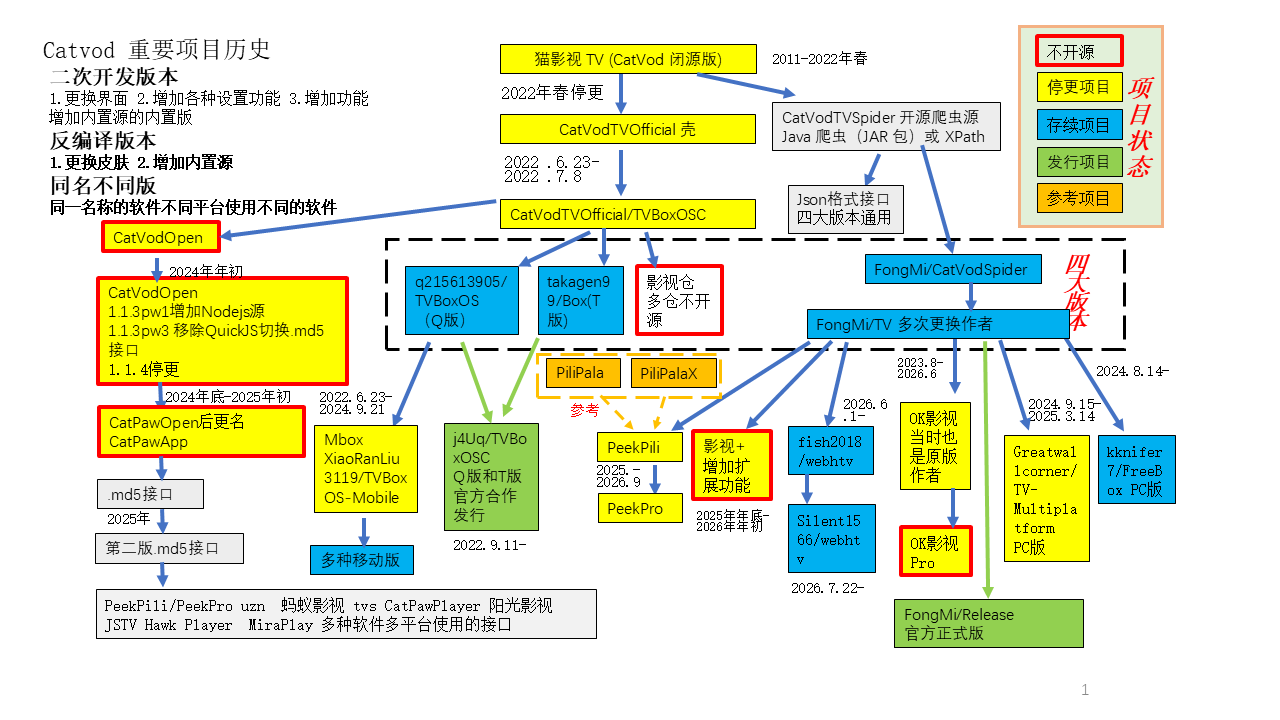
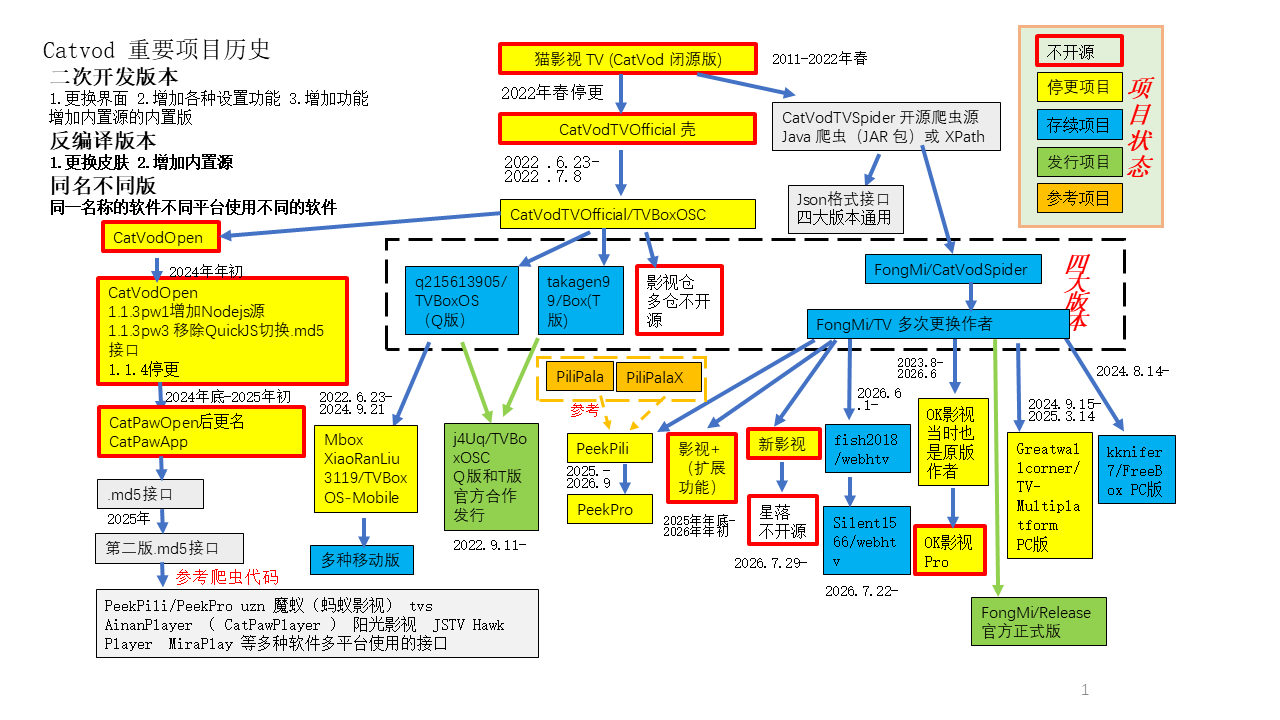
Add files via upload

diff --git a/index.html b/index.html
@@ -400,7 +400,7 @@ const APPS = [
       { lab: "群组", url: "https://t.me/uzVideoApp", text: "t.me/uzVideoApp" },
       { lab: "md5源", url: "https://t.me/PPANZU", text: "UZN 猫爪源频道 t.me/PPANZU" }
     ] },
-  { name: "蚂蚁影视", icon: "🐜", sub: "多平台，支持猫爪源（md5 源）", tags: ["多平台", "猫爪源"],
+  { name: " 魔蚁 （蚂蚁影视）", icon: "🐜", sub: "多平台，支持猫爪源（md5 源）", tags: ["多平台", "猫爪源"],
     links: [
       { lab: "项目", url: "https://github.com/ant-video/ant-video/", text: "GitHub: ant-video/ant-video" },
       { lab: "频道", url: "https://t.me/ant_video", text: "t.me/ant_video" }
@@ -420,11 +420,6 @@ const APPS = [
       { lab: "项目", url: "https://github.com/Silent1566/webhtv", text: "GitHub: Silent1566/webhtv" },
       { lab: "下载", url: "https://github.com/Silent1566/webhtv/releases", text: "Releases 下载" }
     ] },
-  { name: "PeekPro", icon: "🦋", sub: "支持 MD5 等多种源，影视二次开发版；前身 PeekMili（羊壳），不支持 TV、支持 iOS，功能强。已停更，旧版 1.2.5 仍可用。关闭鉴权服务器，网上多为篡改版。Mac/Win 支持 t4、.md5；安卓还支持 tvbox 格式，运行 php 需装 php。iOS 不支持 PHP/py/本地包。巨魔安装：先用全能签签名打开文件访问，再巨魔安装", tags: ["停更", "iOS", "多格式"],
-    links: [
-      { lab: "项目", url: "https://github.com/ingriddaleusag-dotcom/PickTV", text: "GitHub: PickTV" },
-      { lab: "下载", url: "https://github.com/ingriddaleusag-dotcom/PickTV/releases", text: "Releases 下载" }
-    ] },
   { name: "iOS 专用", icon: "🍎", sub: "三款 iOS 平台播放器，均支持 MD5 接口", tags: ["iOS", "AppStore"],
     links: [
       { lab: "应用商店", url: "https://apps.apple.com/", text: "Apple App Store" },
@@ -436,12 +431,11 @@ const APPS = [
     links: [
       { lab: "裤佬网盘", url: "https://526900.xyz/", text: "裤佬网盘" },
       { lab: "小飞机网盘", url: "https://share.feijipan.com/s/AnEEQTwX", text: "小飞机网盘" },
-      { lab: "个人笔记云盘", url: "https://links.8uid.com/s/5c6459b28f73e65dafa5d0c9582e40a4", text: "个人笔记云盘" }
     ] }
 ];
 
 const SOURCES = [
-  { name: "牛二", icon: "🐂", sub: "五选一（任选其一即可）", tags: ["通用", "首选"],
+  { name: "唐三/王小二放牛娃", icon: "🐂", sub: "五选一（任选其一即可）", tags: ["通用", "首选"],
     links: [
       { lab: "首选", url: "https://9280.kstore.vip/cat/index.js.md5", text: "Miraplay 专用（实为通用，首选）", prefer: true },
       { lab: "源1", url: "http://wexfnw:wexfnw@cat.xn--4kq62z5rby2qupq9ub.top/index.js.md5", text: "cat.xn--4kq62z5rby2qupq9ub.top" },
@@ -535,9 +529,9 @@ const TMDB = [
 ];
 
 const OPENSOURCE = [
-  { name: "王小二放牛娃", icon: "👦", sub: "导航地址 + tg 群组，接口同「牛二」五选一", tags: ["导航"],
+  { name: "唐三/王小二放牛娃", icon: "👦", sub: "导航地址 + tg 群组，接口同「牛二」五选一", tags: ["导航"],
     links: [
-      { lab: "导航", url: "https://www.王二小放牛娃.top/", text: "王二小放牛娃.top" },
+      { lab: "导航(暂时失效）", url: "https://www.王二小放牛娃.top/", text: "王二小放牛娃.top" },
       { lab: "群组", url: "https://t.me/wangerxiaofangniuwa", text: "t.me/wangerxiaofangniuwa" },
       { lab: "首选", url: "https://9280.kstore.vip/cat/index.js.md5", text: "Miraplay 专用（实为通用，首选）", prefer: true },
       { lab: "源1", url: "http://wexfnw:wexfnw@cat.xn--4kq62z5rby2qupq9ub.top/index.js.md5", text: "cat.xn--4kq62z5rby2qupq9ub.top" },
@@ -597,9 +591,10 @@ const DOCS = [
     links: [
       { lab: "频道", url: "https://t.me/mozhaogroup", text: "t.me/mozhaogroup", prefer: true }
     ] },
-  { name: "a芽", icon: "🌱", sub: "tg 频道", tags: ["工具"],
+  { name: "a芽", icon: "🌱", sub: "tg 频道+ 群组", tags: ["工具"],
     links: [
-      { lab: "频道", url: "https://t.me/aya_app_tool", text: "t.me/aya_app_tool", prefer: true }
+      { lab: "频道", url: "https://t.me/aya_app_tool", text: "t.me/aya_app_tool", prefer: true },
+      { lab: "群组", url: "https://t.me/aya_app_tools", text: "https://t.me/aya_app_tools", prefer: true }
     ] },
   { name: "路也迢迢", icon: "🛤", sub: "tg 频道 + 群组（同 mozhaogroup）", tags: ["交流"],
     links: [

diff --git a/README.md b/README.md
@@ -29,7 +29,7 @@
 - 群组：[https://t.me/uzVideoApp](https://t.me/uzVideoApp)
 - UZN（md5源）频道：[https://t.me/PPANZU](https://t.me/PPANZU)
 
-### 1.2 蚂蚁影视
+### 1.2 魔蚁（蚂蚁影视）
 - 多平台，支持猫爪源（md5 源）
 - 项目：[https://github.com/ant-video/ant-video/](https://github.com/ant-video/ant-video/)
 - 频道：[https://t.me/ant_video](https://t.me/ant_video)
@@ -50,33 +50,17 @@
 - 下载（releases）：[https://github.com/Silent1566/webhtv/releases](https://github.com/Silent1566/webhtv/releases)
 - 更新非常快；带 `beta` 为测试版（如 `5.5.6-beta-202608041907`），否则为正式版（如 `5.5.6-202607201306`）
 
-### 1.6 PeekPro
-- 支持 md5 等多种源，影视二次开发版
-- 前身 PeekMili（羊壳），不支持 TV，支持 iOS，功能强，类似以前的猫影视
-- 已停更，旧版本 PeekMili 1.2.5 仍可用；关闭鉴权服务器，网上多为篡改版本
-- Mac / Win 支持 `t4`、`.md5`；安卓还支持 tvbox 格式，运行 php 需安装 php
-- iOS 不支持 PHP、py 脚本及本地包
-- 巨魔安装：先用全能签签名打开文件访问，再巨魔安装
-- 项目：[https://github.com/ingriddaleusag-dotcom/PickTV](https://github.com/ingriddaleusag-dotcom/PickTV)
-- 下载：[https://github.com/ingriddaleusag-dotcom/PickTV/releases](https://github.com/ingriddaleusag-dotcom/PickTV/releases)
+### 1.6 iOS 专用
 
-### 1.7 iOS 专用
-
-#### 1.7.1 应用商店
+#### 1.6.1 应用商店
 - App Store：[https://apps.apple.com/](https://apps.apple.com/)
 - **JS TV**：想要最大灵活度和脚本能力，国内可搜到，支持 md5 接口，高级功能付费
 - **Hawk Player**：想要全能播放器，国内可搜到，支持 md5 接口，高级功能付费
 
-#### 1.7.2 Miraplay（魔力云播）
+#### 1.6.2 Miraplay（魔力云播）
 - 专门的猫爪源播放器，需外区 ID，高级功能付费，苹果 App Store 上架
 
-### 1.8 网盘下载
-
-> 网盘版本可能会老一些，隔一段时间才更新一次；影视可用下面的链接直接下载。
-
-- [小飞机网盘](https://share.feijipan.com/s/AnEEQTwX)
-- [个人笔记网盘](https://links.8uid.com/s/5c6459b28f73e65dafa5d0c9582e40a4)
-
+### 1.7 网盘下载
 
 第三方网盘：
 
@@ -86,7 +70,7 @@
 
 ## 2. md5 接口
 
-### 2.1 牛二（⭐ 五选一）
+### 2.1 唐三/王小二放牛娃（⭐ 五选一）
 - ⭐ **Miraplay 专用（实为通用接口，首选）**：`https://9280.kstore.vip/cat/index.js.md5`
 - `http://wexfnw:wexfnw@cat.xn--4kq62z5rby2qupq9ub.top/index.js.md5`
 - `http://wexfnw:wexfnw@cat.999888987.xyz/index.js.md5`
@@ -177,7 +161,7 @@
 
 ## 5. 开源接口项目
 
-### 5.1 王小二放牛娃
+### 5.1 唐三 /王小二放牛娃
 - 导航：[https://www.王二小放牛娃.top/](https://www.王二小放牛娃.top/)
 - tg 群组：[https://t.me/wangerxiaofangniuwa](https://t.me/wangerxiaofangniuwa)
 - 接口（同「牛二」五选一，⭐首选 Miraplay 专用）：`https://9280.kstore.vip/cat/index.js.md5`
@@ -231,6 +215,7 @@
 
 ### 6.2 a芽
 - tg 频道：[https://t.me/aya_app_tool](https://t.me/aya_app_tool)
+- tg 群组：[https://t.me/aya_app_tools](https://t.me/aya_app_tools)
 
 ### 6.3 路也迢迢
 - tg 频道：[https://t.me/mozhaogroup](https://t.me/mozhaogroup)
